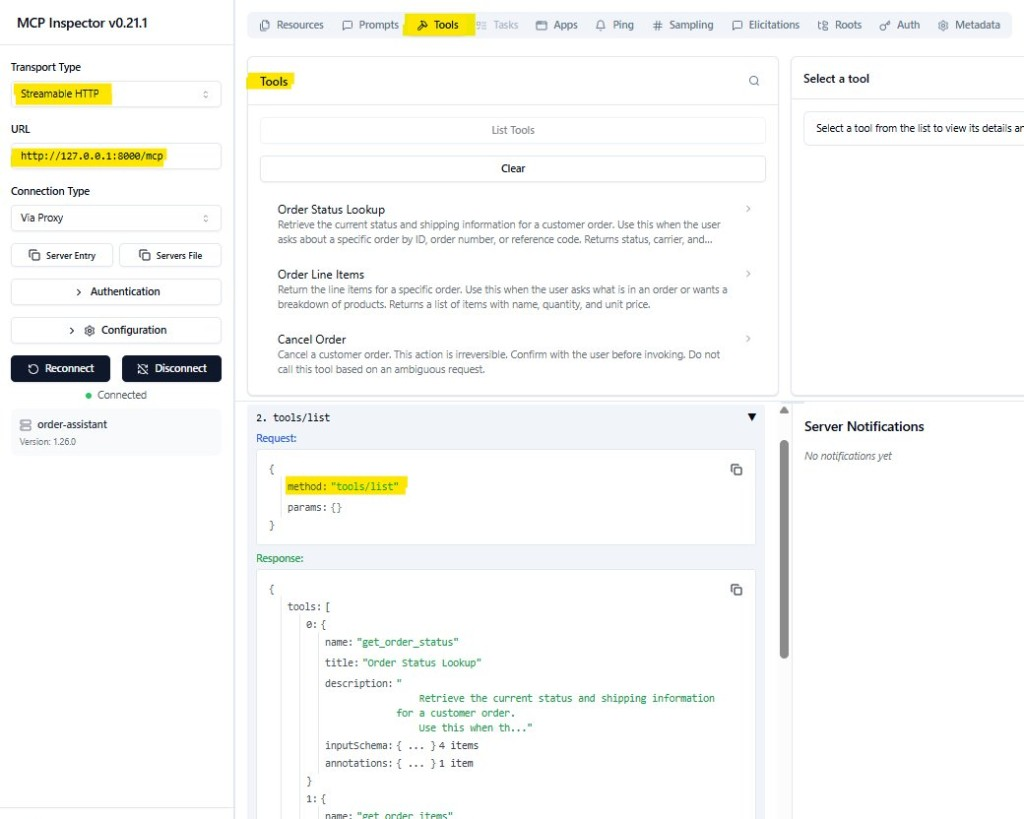
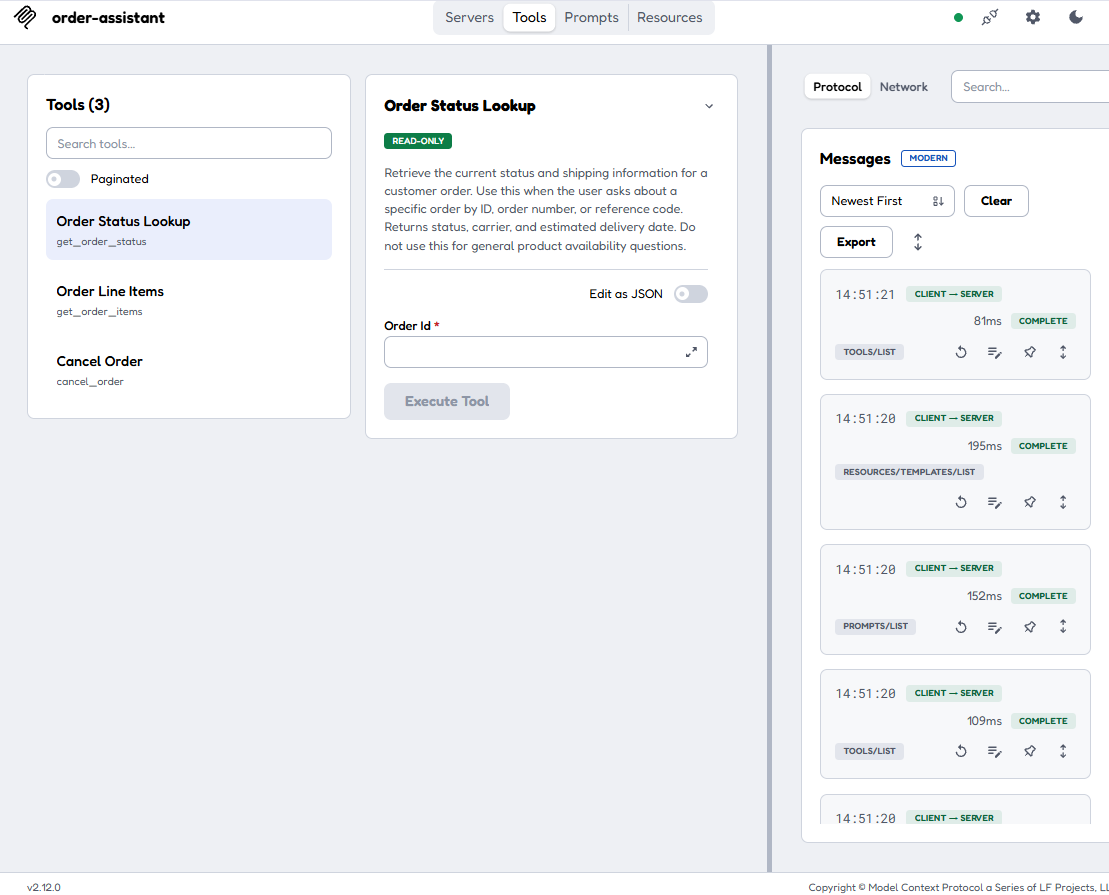
docs: localhost warning, Inspector 2.12 steps and screenshot; drop local capture path
Batch C lab change set: B3-R04 (README Host row and warning, .env.example; set L-4 with Hub 4ed12ba), MP-03 alignment (README Inspector section, pinned 2.12.0), D-4 screenshot, C2A-02 ride-along.

Approval: execution plan section 7, rule 10; BatchC_Part9_CS2_and_Lab_Handoff_v2.md section 2 (D-3 to D-5).

diff --git a/README.md b/README.md
@@ -195,10 +195,12 @@ An example env file is included:
 
 | Setting | Value | Source |
 |---------|-------|--------|
-| Host | `127.0.0.1` | Lab default (`HOST`) |
+| Host | `127.0.0.1` | Lab default (`HOST`); keep it (see the warning below) |
 | Port | `8000` | Lab default (`PORT`) |
 | Path | `/mcp` | Streamable HTTP path used by this lab |
 | Full URL | **`http://127.0.0.1:8000/mcp`** | Combined |
+
+> **Keep `HOST` at `127.0.0.1`.** This demo has no authentication: any program that can reach the endpoint can call every tool, including `cancel_order`. Binding to `0.0.0.0` can make it reachable from other machines on your network. The server's `Origin` check is not authentication either: it blocks browser requests from other websites, but a request with no `Origin` header passes. And with SDK 2.3.0, the `Host` and `Origin` checks are enabled automatically only when `HOST` is `127.0.0.1`, `localhost` or `::1`; for any other value they are not enabled automatically.
 
 ## Validate with MCP Inspector (optional)
 
@@ -207,16 +209,16 @@ With the server running, you can use MCP Inspector to verify the endpoint and br
 In another terminal:
 
 ```bash
-npx @modelcontextprotocol/inspector
+npx @modelcontextprotocol/inspector@2.12.0
 ```
 
-This opens the Inspector UI in your browser. To connect:
+Inspector 2.12 opens in your browser with a list of example servers. To connect to this lab:
 
-1. Set **Transport Type** to **Streamable HTTP**
-2. Enter `http://127.0.0.1:8000/mcp` as the URL
-3. Click **Connect**
+1. On the **example-server-default** card (Streamable HTTP), click **Edit**, set the URL to `http://127.0.0.1:8000/mcp`, and click **Save**.
+2. On the same card, open **Settings** and set **Protocol Era** to **Modern (2026-07-28, sessionless)**.
+3. Turn on the card's switch to connect.
 
-If the connection succeeds, you'll see the three TechNova tools - Order Status Lookup, Order Line Items, and Cancel Order - listed in the Tools tab.
+Connection Info should show protocol 2026-07-28, era MODERN and session Sessionless, and the Tools tab lists the three TechNova tools: Order Status Lookup, Order Line Items, and Cancel Order. With the default **Legacy** era, Inspector uses the older 2025-11-25 handshake and its requests carry an `mcp-session-id` header; the Modern era has none.
 
 ![MCP Inspector connected to the Streamable HTTP server, showing the three order-assistant tools](images/mcp-inspector-streamable-http.png)
 *MCP Inspector connected over Streamable HTTP and listing the TechNova tools.*

diff --git a/docs/wire/README.md b/docs/wire/README.md
@@ -2,7 +2,7 @@
 
 - Capture date: 2026-10-22
 - Transport: streamable-http
-- Capture method/tool: temporary Phase 1B script under `C:\Important\MCP-spike\capture\` (JSON-RPC dispatcher and HTTP header hooks against the final lab code; script not part of this repo)
+- Capture method/tool: a temporary capture script with JSON-RPC dispatcher and HTTP header hooks, run against the final lab code (the script is not part of this repo)
 - Python version: 3.12.9
 - mcp version: 2.3.0
 - MCP protocol revision: 2026-07-28
